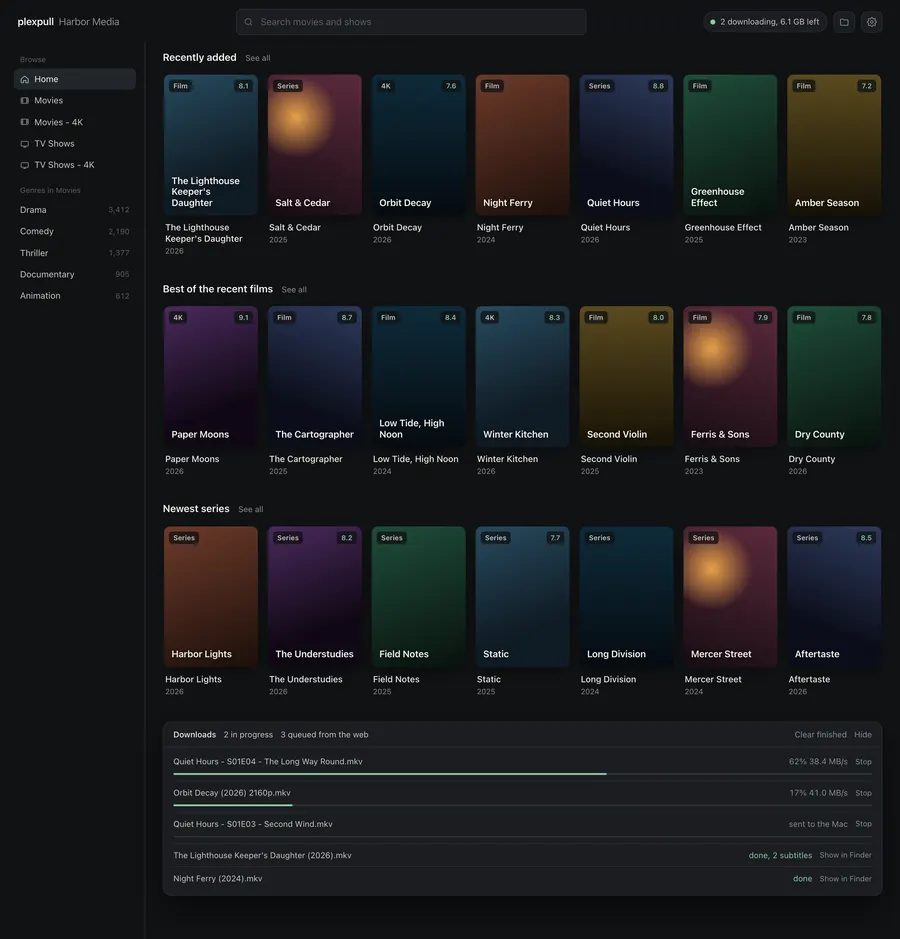
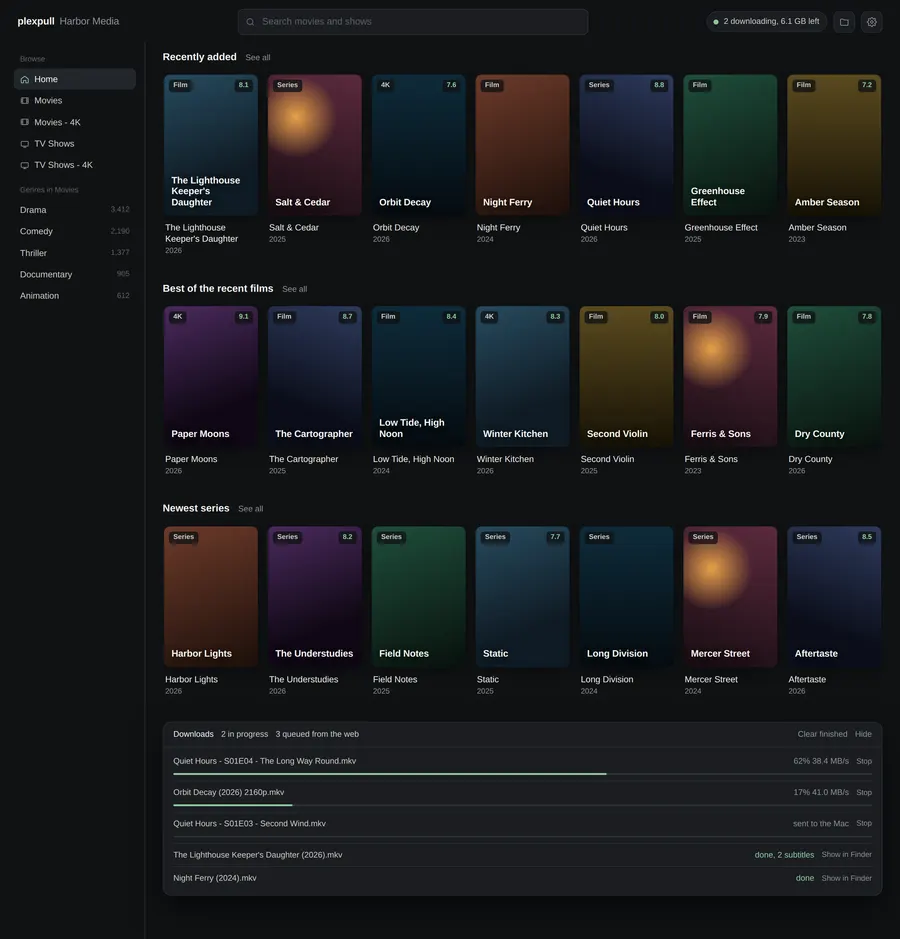
Capture a phone screenshot of each site for the phone layout
Until now every preview was a 900px desktop capture, so on a phone each
row showed a crushed desktop page nobody could read. The capture script
now shoots each site twice: the desktop pass as before, and a 390px pass
with mobile emulation that writes <host>.mobile.webp. previews.json
records both sizes. The row swaps in the phone capture below 768px via
<picture>, and the frame goes portrait (4/5) there so it shows the first
screen of the phone page rather than a thin landscape slice.

The three mocks had no phone layout at all, and no viewport meta, so
Chromium laid them out at 980px and scaled them down. Each gets the meta
tag and a max-width:600px block: sidebars collapse into a top strip,
stat and card grids drop to two columns, per-row action buttons and the
least important table columns hide. plexpull also needed min-width:0 on
main; its poster strips are fixed-width flex rows and were forcing the
grid track out to 900px, the same bug the landing page itself had.

Claude-Session: https://claude.ai/code/session_01P6tWvpjV6tq4UowstkJgoK

diff --git a/src/Projects.tsx b/src/Projects.tsx
@@ -14,7 +14,8 @@ const tiles: Record<Accent, string> = {
   emerald: 'from-emerald-500 to-teal-600',
 }
 
-const sizes: Record<string, { w: number; h: number }> = previewSizes
+type Size = { w: number; h: number }
+const sizes: Record<string, Size & { mobile?: Size }> = previewSizes
 
 const hostname = (url: string) => new URL(url).hostname.replace(/^www\./, '')
 
@@ -108,7 +109,7 @@ function Row({ project }: { project: Project }) {
   )
 }
 
-function Preview({ project, host, image }: { project: Project; host: string; image?: { w: number; h: number } }) {
+function Preview({ project, host, image }: { project: Project; host: string; image?: Size & { mobile?: Size } }) {
   return (
     <div className="overflow-hidden rounded-xl border border-neutral-200 bg-white shadow-sm dark:border-neutral-800 dark:bg-neutral-900">
       <div className="flex items-center gap-1.5 border-b border-neutral-200 bg-neutral-50 px-3 py-2 dark:border-neutral-800 dark:bg-neutral-800/60">
@@ -117,18 +118,30 @@ function Preview({ project, host, image }: { project: Project; host: string; ima
         <span className="size-2 rounded-full bg-neutral-300 dark:bg-neutral-600" />
         <span className="ml-2 truncate font-mono text-[11px] text-neutral-500">{host}</span>
       </div>
-      <div className="relative aspect-[16/10] bg-neutral-100 dark:bg-neutral-800">
+      <div className="relative aspect-[4/5] bg-neutral-100 md:aspect-[16/10] dark:bg-neutral-800">
         {image ? (
-          <img
-            src={`/previews/${host}.webp`}
-            alt={`Screenshot of ${project.name}`}
-            width={image.w}
-            height={image.h}
-            loading="lazy"
-            decoding="async"
-            className="preview-img size-full object-cover"
-            style={{ '--pan': `${Math.min(14, 3 + (image.h / image.w) * 3)}s` } as CSSProperties}
-          />
+          // Phones get a capture of the site's own phone layout; anything
+          // wider gets the desktop capture.
+          <picture className="contents">
+            {image.mobile && (
+              <source
+                media="(max-width: 767px)"
+                srcSet={`/previews/${host}.mobile.webp`}
+                width={image.mobile.w}
+                height={image.mobile.h}
+              />
+            )}
+            <img
+              src={`/previews/${host}.webp`}
+              alt={`Screenshot of ${project.name}`}
+              width={image.w}
+              height={image.h}
+              loading="lazy"
+              decoding="async"
+              className="preview-img size-full object-cover"
+              style={{ '--pan': `${Math.min(14, 3 + (image.h / image.w) * 3)}s` } as CSSProperties}
+            />
+          </picture>
         ) : (
           <div className={`flex size-full items-center justify-center bg-gradient-to-br ${tiles[project.accent]}`}>
             <span className="text-5xl font-semibold tracking-tight text-white/90">{monogram(project.name)}</span>

diff --git a/scripts/mocks/ledger.html b/scripts/mocks/ledger.html
@@ -2,6 +2,7 @@
 <html lang="en">
 <head>
 <meta charset="utf-8">
+<meta name="viewport" content="width=device-width, initial-scale=1">
 <title>ledger — mock</title>
 <style>
   /*
@@ -63,6 +64,26 @@
   .sub .m { color:var(--muted); font-size:12px; } .sub .amt { font-variant-numeric:tabular-nums; }
   .tag { font-size:11px; padding:2px 8px; border-radius:999px; border:1px solid var(--line2); color:var(--ink2); }
   .tag.k { border-color:transparent; background:rgba(143,202,162,.18); color:var(--accent); } .tag.c { border-color:transparent; background:rgba(226,133,123,.18); color:var(--red); }
+
+  /* Phone layout for the mobile preview capture. */
+  @media (max-width: 600px) {
+    #shell { grid-template-columns:1fr; min-height:0; }
+    nav { display:flex; flex-wrap:wrap; align-items:center; gap:4px; padding:14px 12px 10px; border-right:0; border-bottom:1px solid var(--line); }
+    .brand { width:100%; padding:0 6px 10px; }
+    nav .grp, nav .foot { display:none; }
+    nav .b { padding:6px 10px; font-size:13px; }
+    nav .b .badge { margin-left:6px; }
+    main { padding:18px 16px 32px; }
+    h1 { font-size:22px; }
+    .stats { grid-template-columns:1fr 1fr; gap:10px; }
+    .stat { padding:12px 14px; } .stat b { font-size:20px; }
+    .item { grid-template-columns:34px 1fr; padding:12px 14px; }
+    .item .act { display:none; }
+    .cards { grid-template-columns:1fr 1fr; gap:10px; }
+    .art { height:96px; padding:12px; }
+    .sub { grid-template-columns:1fr auto auto; padding:11px 12px; }
+    .sub .m:last-child { display:none; }
+  }
 </style>
 </head>
 <body>

diff --git a/scripts/mocks/datamatics.html b/scripts/mocks/datamatics.html
@@ -2,6 +2,7 @@
 <html lang="en">
   <head>
     <meta charset="utf-8" />
+    <meta name="viewport" content="width=device-width, initial-scale=1" />
     <title>Pulse — Campaign overview</title>
     <style>
       /*
@@ -198,6 +199,27 @@
       .row:last-child { border-bottom: 0; }
       .row .who { color: var(--ink-2); }
       .dot-list i { display: inline-block; width: 8px; height: 8px; border-radius: 2px; margin-right: 8px; background: var(--brand-600); }
+
+      /* Phone layout for the mobile preview capture. */
+      @media (max-width: 600px) {
+        body { display: block; width: auto; }
+        aside { width: auto; padding: 18px 16px 14px; }
+        nav { margin-top: 14px; flex-direction: row; flex-wrap: wrap; gap: 4px; }
+        nav a { padding: 6px 10px; font-size: 12.5px; }
+        .aside-foot { display: none; }
+        main { padding: 18px 16px 32px; }
+        .topbar { flex-direction: column; align-items: flex-start; gap: 10px; }
+        h1 { font-size: 19px; }
+        .kpis { grid-template-columns: 1fr 1fr; gap: 10px; margin-top: 16px; }
+        .kpi { padding: 14px; } .kpi .value { font-size: 22px; }
+        .panel { padding: 16px 14px; }
+        .chart { height: 180px; }
+        .cols, .xaxis { gap: 5px; }
+        .xaxis span:nth-child(even) { visibility: hidden; }
+        col.c-name { width: 52%; } col.c-num { width: 24%; }
+        th:nth-child(4), td:nth-child(4), th:nth-child(3), td:nth-child(3) { display: none; }
+        .two { grid-template-columns: 1fr; }
+      }
     </style>
   </head>
   <body>

diff --git a/scripts/mocks/plexpull.html b/scripts/mocks/plexpull.html
@@ -2,6 +2,7 @@
 <html lang="en">
 <head>
 <meta charset="utf-8">
+<meta name="viewport" content="width=device-width, initial-scale=1">
 <title>plexpull — mock</title>
 <style>
   /*
@@ -70,6 +71,25 @@
   .job .a { color:var(--muted); font-size:12px; }
   .prog { grid-column:1/-1; height:3px; background:var(--line); border-radius:2px; overflow:hidden; margin-top:-3px; }
   .prog i { display:block; height:100%; background:var(--accent); box-shadow:0 0 8px var(--accent); }
+
+  /* Phone layout for the mobile preview capture. */
+  @media (max-width: 600px) {
+    #shell { grid-template-columns:minmax(0,1fr); min-height:0; }
+    main { min-width:0; }
+    header { flex-wrap:wrap; gap:10px; padding:14px 16px 8px; }
+    .search { flex:1 0 100%; max-width:none; order:3; }
+    .right { margin-left:auto; }
+    .pill span { display:none; }
+    nav { display:none; }
+    main { padding:6px 16px 32px; }
+    .row { margin:8px 0 20px; }
+    .strip { gap:12px; }
+    .card { flex:0 0 118px; }
+    .poster { padding:10px; } .poster b { font-size:13px; }
+    .t { font-size:13px; }
+    .job { grid-template-columns:1fr auto; }
+    .job .a { display:none; }
+  }
 </style>
 </head>
 <body>
